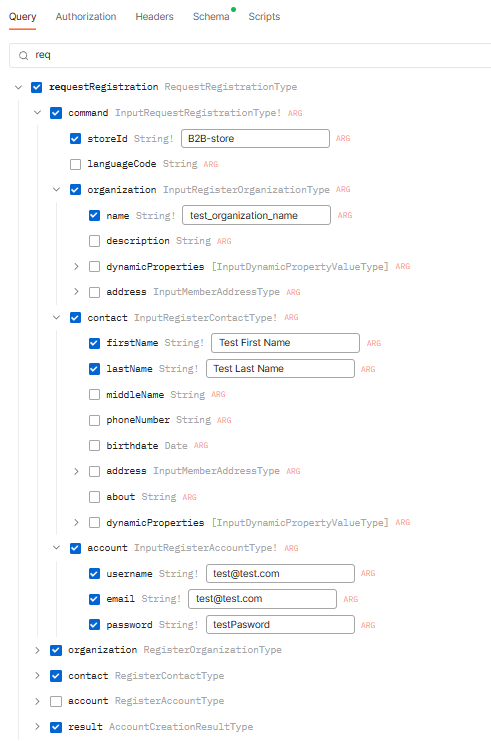
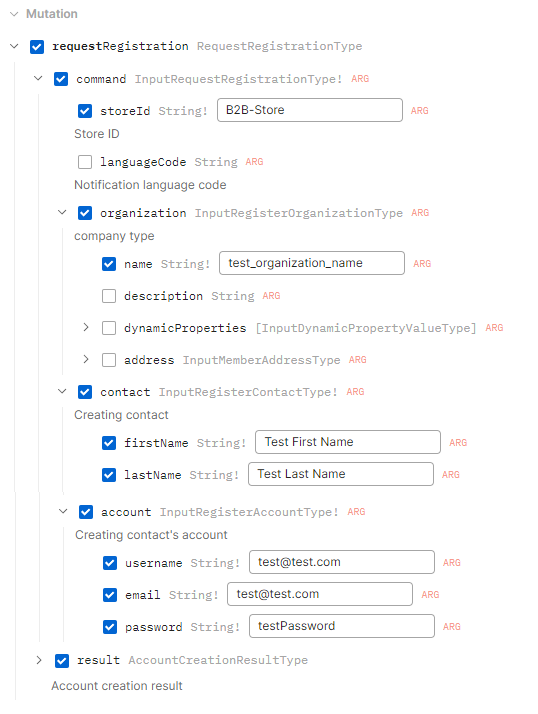
Updated: Postman guide

diff --git a/platform/developer-guide/docs/GraphQL-Storefront-API-Reference-xAPI/postman.md b/platform/developer-guide/docs/GraphQL-Storefront-API-Reference-xAPI/postman.md
@@ -1,4 +1,4 @@
-# GraphQL API call from Postman [In Progress]
+# GraphQL API call from Postman
 Many developers use both Postman and GraphiQL to work with GraphQL based on the specific tasks they need to accomplish. Postman provides a wide range of tools for creating, sending, and tracking requests to APIs. Postman allows you to create collections of requests, automate API testing, set up environments, work with variables, create scripts for more complex tests. This guide explains how to make GraphQL API calls using Postman. 
 
 Our instruction contains fundamental guidelines. For more information, refer to the extensive [Postman guide](https://learning.postman.com/docs/introduction/overview/). 
@@ -12,88 +12,16 @@ To explore GraphQL via Postman:
 1. [Build queries and mutations.](#build-queries-and-mutations)
 1. [Use variables.](#use-variables)
 
-## Import GraphQL schemas from GraphiQL [In progress]
+## Import GraphQL schemas from GraphiQL
 
 Importing schemas is the crucial initial step to begin working with Postman for GraphQL. To import schemas:
 
-1. Open [GraphiQL](graphiql.md) and run the IntrospectionQuery:
+1. Open Postman and create a new **Graphql Request**.
+1. Enter URL to import GraphQL schema from. 
 
-    ??? IntrospectionQuery
-        
-        ```
-        {
-        __schema {
-            queryType {
-              name
-              fields {
-                name
-                description
-                args {
-                  name
-                  description
-                  type {
-                    name
-                    kind
-                  }
-                }
-                type {
-                  name
-                  kind
-                  }
-                }
-            }
-            mutationType {
-              name
-              fields {
-                name
-                description
-                args {
-                  name
-                  description
-                  type {
-                    name
-                    kind
-                  }
-                }
-                type {
-                  name
-                  kind
-                }
-              }
-            }
-            types {
-              name
-              kind
-              description
-              fields {
-                name
-                description
-                type {
-                  name
-                  kind
-                }
-                args {
-                  name
-                  description
-                  type {
-                    name
-                    kind
-                  }
-                }
-              }
-            }
-          }
-        }
-        ```
+The schema will be imported in a couple of seconds. In the **Schema** tab, you can refresh your schema at any time.
 
-1. Copy the returned content from the right panel to clipboard.
-1. Open Postman, either using the desktop application or the web version. 
-1. In Postman, go to the **APIs** tab in the sidebar. Click **Create an API** or ![plus](media/plus.png){: width="20"} to add a new API. If necessary, rename your API.
-1. In the API setup, look for the **Definition** segment and click ![plus](media/plus.png){: width="20"}.
-1. From the dropdown list that appears, select **Author from scratch**.
-1. In the subsequent dropdown lists, set **GraphQL** as the **Definition type** and **GraphQL SDL** as the **Definition format**.
-1. Click **Create definition**.
-1. Paste the content you copied from GraphiQL into the main field and click **Save**.
+![Import schema](media/import-schema-from-graphiql.gif)
 
 !!! note
     Postman cannot update your schema automatically. You have to update it manually on a regular basis.
@@ -107,10 +35,8 @@ Collections are sets of requests grouped together for organized and streamlined 
 1. From the dropdown list, select **Add new collection**.
 1. Name your collection in the provided field.
 1. Click **Generate Collection**.
-
-![collection](media/Create-collection.gif)    
-
-The list of available queries and mutations appeares in the menu.
+ 
+The list of available queries and mutations appears in the menu.
 
 ## Create environment
 
@@ -122,7 +48,7 @@ Environments are predefined sets of variables that allow you to configure and sw
 1. Copy address from GraphiQL and paste it as initial value.
 1. In the APIs tab, select your newly created environment from the dropdown list.
 
-![environment](media/create-environment.gif)
+![environment](media/create-new-environment.gif)
 
 **Example**
 
@@ -237,115 +163,56 @@ Now all the queries and mutations can use this token.
     In the **Authorization** tab, check that the variables are inherited from parent.
 
 
-## Build queries and mutations
+## Build queries
 
-You can use Postman to build queries and mutations:
+In the **Query** tab, let's build a query asking for the total number of products from the **B2B-store** that contain the word **bolt** in their names or descriptions.
 
-1. In the top toolbar, click **New** to create a new request.
-1. Select **GraphQL** in the next window.
-1. Click **Use a GraphQL API** in the query tab. Then select your API from the dropdown list.
-1. Enter **{{url}}** in the URL bar.
-1. Now you can build queries and mutations in the **Query** tab.
+1. Check **Products** query in the list of queries and mutations. 
+1. Fill in the required fields that are checked automatically (i.e. **B2B-Store**).
+1. Add **query** field to narrow down the results. Fill it in with **bolt**.
+1. Click **Query** in the top right corner.
 
-    ![build-queries](media/build-query.gif)
+There are 26 products in B2B-store that contain the term "bolt" in their names or descriptions.
 
+![query bolts](media/query-bolts.gif)
 
-??? Example "Example query"
-    Let's build a query asking for the total number of products and categories from the "B2B-store" that contain the word "bolt" in their names or descriptions.
+## Build mutations
 
-    1. Check **Products** and **Categories** queries in the list of queries and mutations. 
-    1. Fill in the required fields that are checked automatically (i.e. **B2B-Store**).
-    1. Add **query** field to narrow the results. Fill it in with **bolt**.
-    1. Click **Query**.
+In the **Query** tab, let's build a [requestRegistration](Profile/Mutations/requestRegistration.md) mutation to register a **test_organization_name** company and its user named **Test First Name Test Last Name**. 
 
-    There are 93 products and 32 categories in B2B-store that contain the term "bolt" in their names or descriptions.
+1. Click **requestRegistration** and fill in the following fields:
 
-    ![query bolts](media/query-bolts.gif)
+    ![mutation](media/requestRegistration.png)
 
+1. The resulting mutation looks as follows:
 
-??? Example "Example mutation"
-    Let's build a [requestRegistration](Profile/Mutations/requestRegistration.md) mutation to register **test_organization_name** company and its user named **Test First Name Test Last Name**. 
-
-    1. Click **requestRegistration** and fill in the following fields:
-
-        ![mutation](media/requestRegistration.png)
-
-    1. The resulting query looks as follows:
-
-        ```json
-        mutation RequestRegistration {
-            requestRegistration(
-                command: {
-                    organization: { name: "test_organization_name" }
-                    contact: { firstName: "Test First Name", lastName: "Test Last Name" }
-                    account: {
-                        username: "test@test.com"
-                        email: "test@test.com"
-                        password: "testPasword"
-                    }
-                    storeId: "B2B-store"
+    ```json
+    mutation RequestRegistration {
+        requestRegistration(
+            command: {
+                organization: { name: "test_organization_name" }
+                contact: { firstName: "Test First Name", lastName: "Test Last Name" }
+                account: {
+                    username: "test@test.com"
+                    email: "test@test.com"
+                    password: "testPassword"
                 }
-            ) {
-                organization {
-                    id
-                    name
-                    description
-                    status
-                    createdBy
-                    ownerId
-                }
-                contact {
-                    id
-                    firstName
-                    lastName
-                    middleName
-                    phoneNumber
-                    birthdate
-                    status
-                    createdBy
-                    about
-                    address {
-                        id
-                        key
-                        isDefault
-                        city
-                        countryCode
-                        countryName
-                        email
-                        firstName
-                        middleName
-                        lastName
-                        line1
-                        line2
-                        name
-                        organization
-                        phone
-                        postalCode
-                        regionId
-                        regionName
-                        zip
-                        outerId
-                        description
-                        addressType
-                    }
-                }
-                result {
-                    succeeded
-                    requireEmailVerification
-                    errors {
-                        code
-                        description
-                        parameter
-                    }
-                }
+                storeId: "B2B-Store"
+            }
+        ) {
+            result {
+                succeeded
+                requireEmailVerification
             }
         }
-        ```
-    1. Click **Query** to execute the mutation.
-    1. To check the result, open Platform and click **Contacts** in the main menu.
-    1. The **Test organization name** company has been successfully created with the user **Test first name Test last name**.
+    }
+    ```
 
-    ![requestRegistration](media/requestRegistration.gif)
+1. Click **Query** to execute the mutation.
+1. To check the result, open the Platform and click **Contacts** in the main menu.
+1. The **Test organization name** company has been successfully created with the user **Test first name Test last name**.
+
+    ![requestRegistration](media/requestRegistration_mutation.png)
 
 ## Preset variables
 
